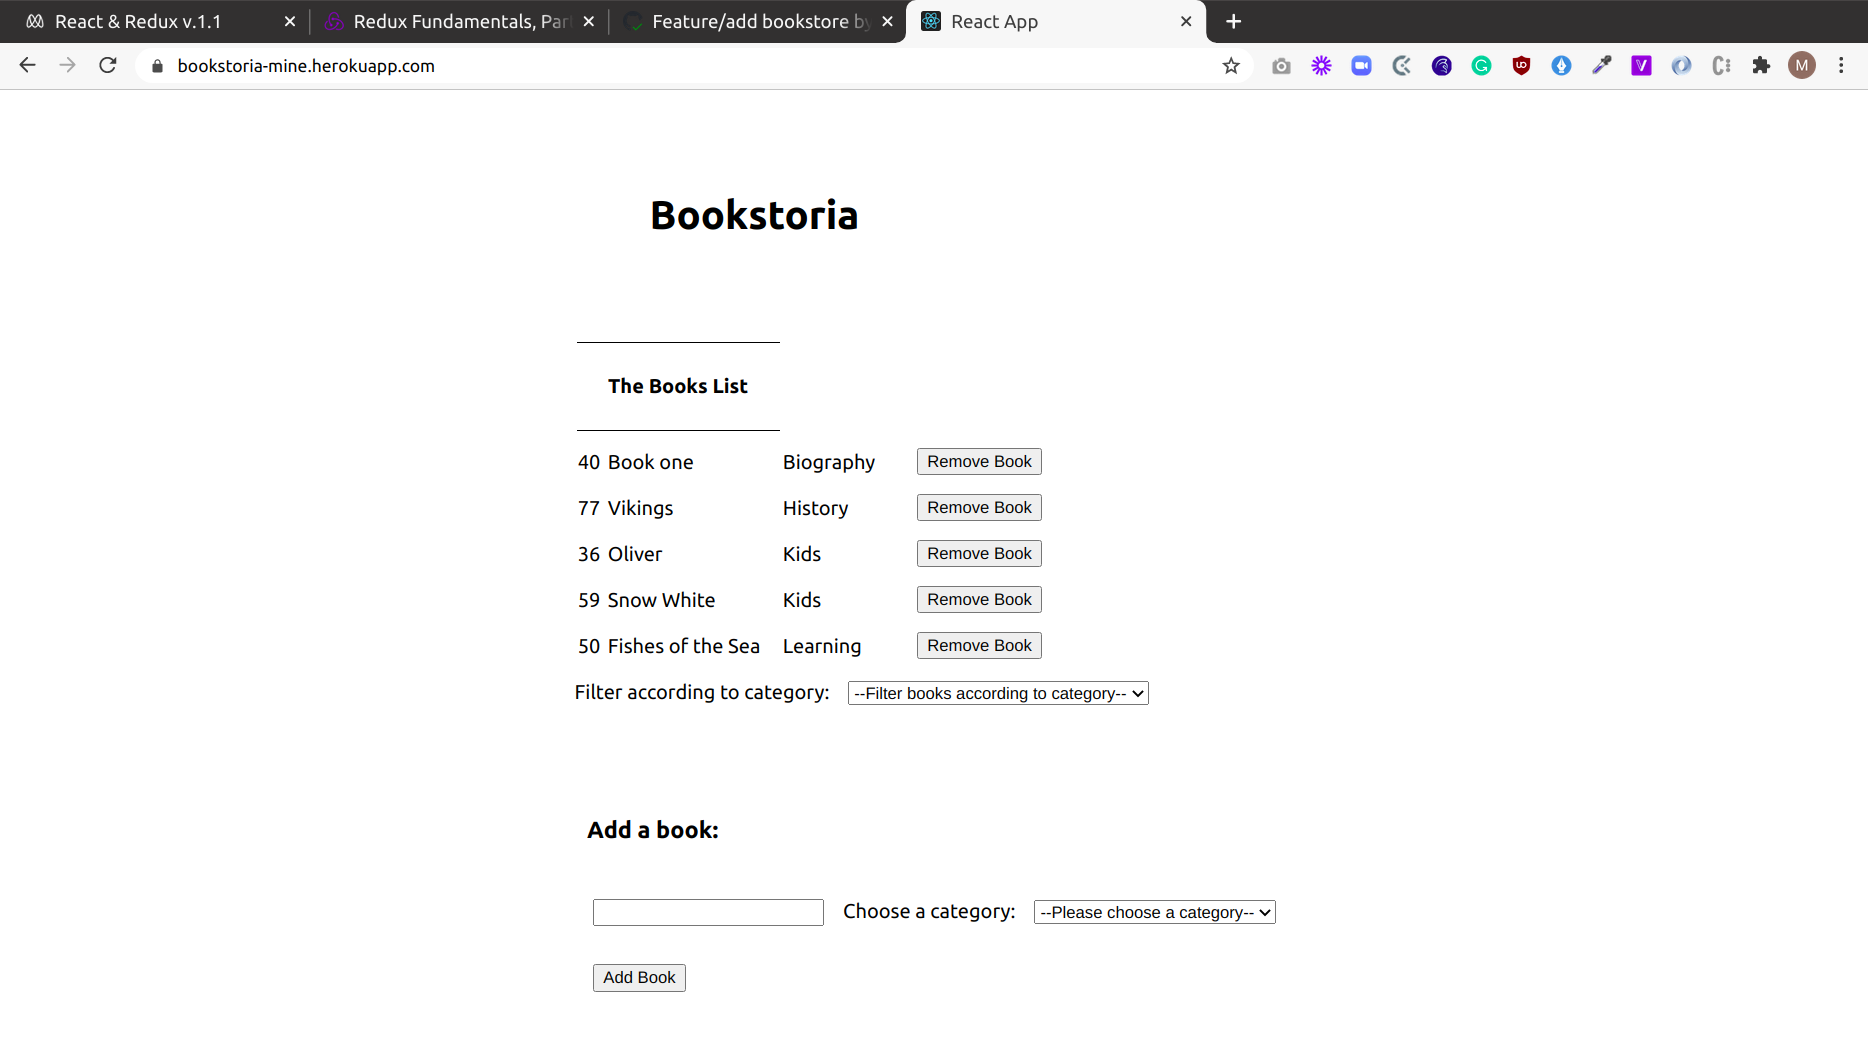
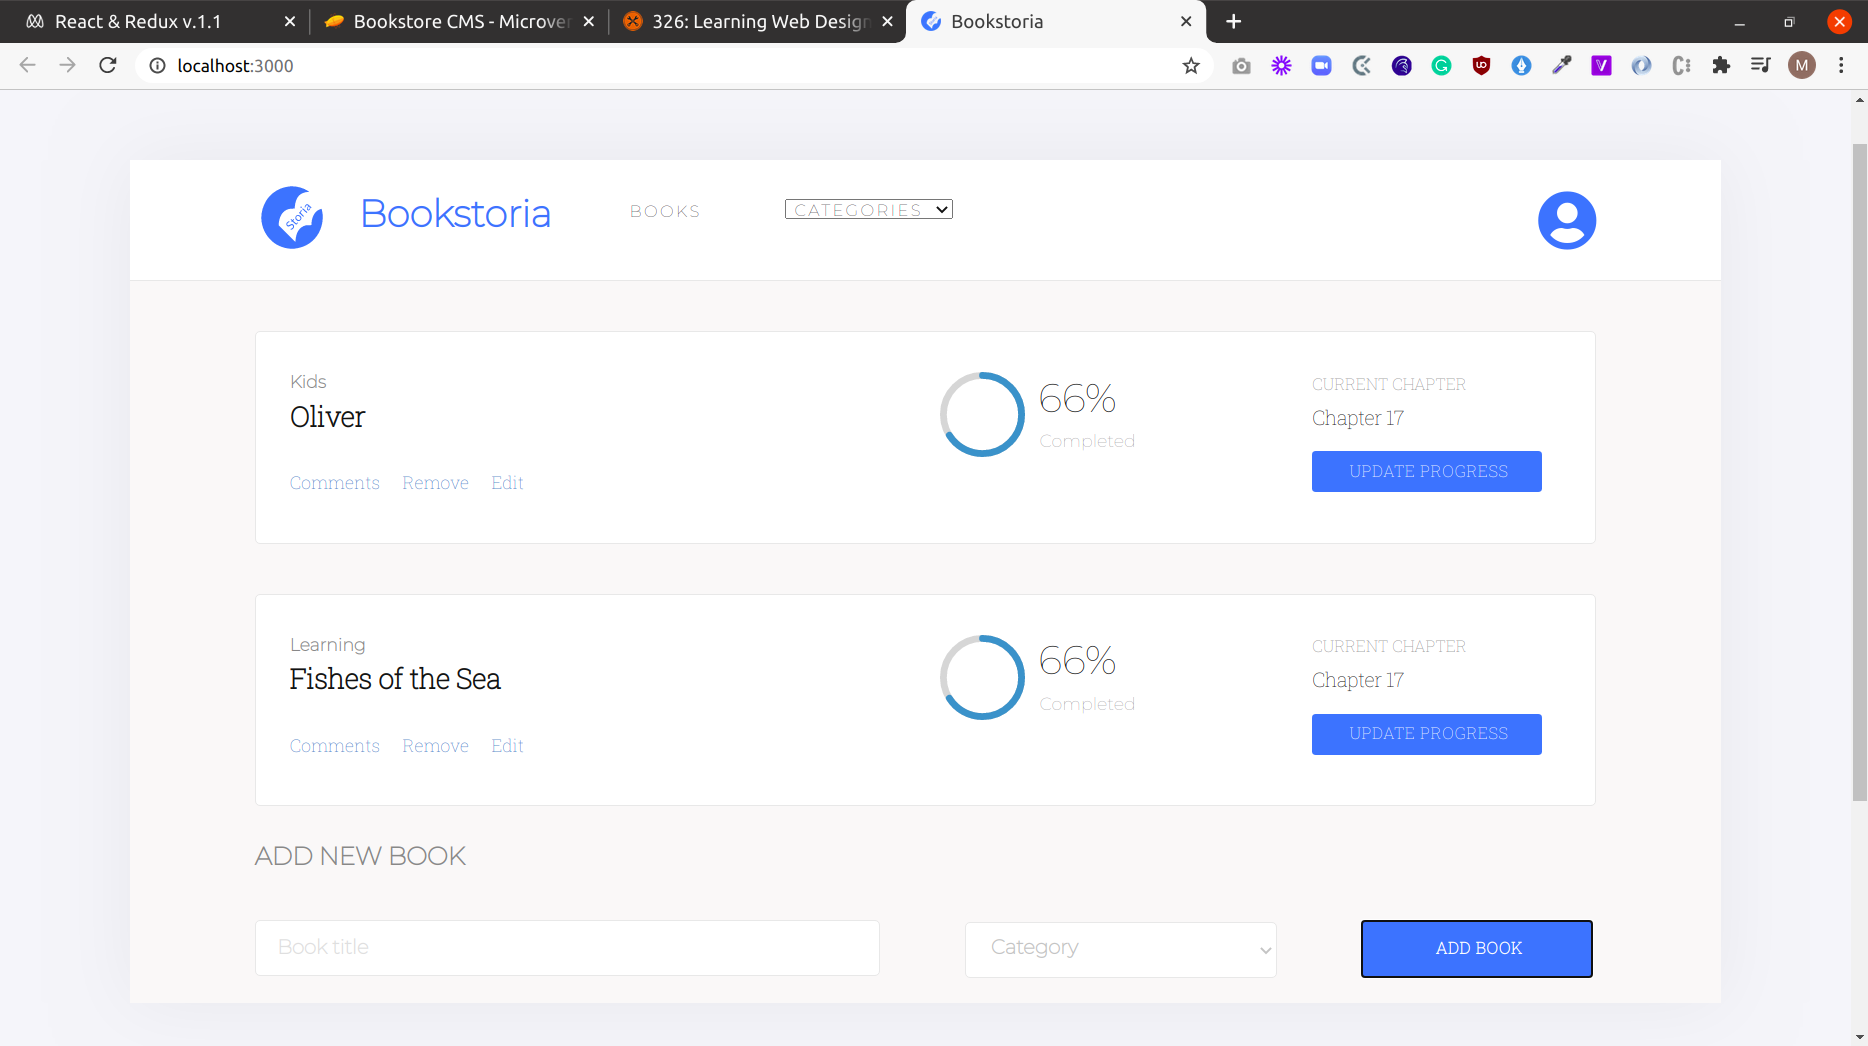
Add the `add new book` section styling

diff --git a/src/App.css b/src/App.css
@@ -6,7 +6,8 @@ ul {
   list-style: none;
 }
 
-.bookstore-heading li, .bookstore-heading select {
+.bookstore-heading li,
+.bookstore-heading select {
   padding-right: 10px;
   margin-right: 50px;
   width: 59px;
@@ -22,10 +23,19 @@ ul {
   padding-top: 18px;
   cursor: pointer;
 }
+
 .bookstore-heading select {
   width: 135px;
   padding-top: unset;
   padding-left: 3px;
+}
+
+.comments-section li {
+  margin-right: 3px;
+  margin-top: 15px;
+  margin-bottom: 15px;
+  padding-right: 12px;
+  cursor: pointer;
 }
 
 .bookstore-heading li:first-child {
@@ -157,13 +167,6 @@ ul {
   letter-spacing: normal;
   color: #4386bf;
 }
-.comments-section li {
-  margin-right: 3px;
-  margin-top: 15px;
-  margin-bottom: 15px;
-  padding-right: 12px;
-  cursor: pointer;
-}
 
 .comments-section li:not(:last-child) {
   border-right: solid 1px #e8e8e8;
@@ -177,7 +180,7 @@ ul {
   width: 68px;
   height: 39px;
   margin: 1px 92px 0 11px;
-  font-family: Montserrat;
+  font-family: 'Montserrat', sans-serif;
   font-size: 32px;
   font-weight: normal;
   font-stretch: normal;
@@ -192,7 +195,7 @@ ul {
   height: 18px;
   margin: 7px 79px 12px 12px;
   opacity: 0.5;
-  font-family: Montserrat;
+  font-family: 'Montserrat', sans-serif;
   font-size: 14px;
   font-weight: normal;
   font-stretch: normal;
@@ -214,13 +217,13 @@ ul {
   padding: 7px 19px 8px 22px;
   border-radius: 3px;
   background-color: #0290ff;
-  border: #0290ff
+  border: #0290ff;
 }
 
 .update-progress {
   width: 143px;
   height: 18px;
-  font-family: RobotoSlab;
+  font-family: 'Roboto Slab', serif;
   font-size: 13px;
   font-weight: 300;
   font-stretch: normal;
@@ -228,5 +231,111 @@ ul {
   line-height: normal;
   letter-spacing: 0.5px;
   text-align: center;
-  color: #ffffff;
+  color: #fff;
+}
+
+.form-title {
+  width: 174px;
+  height: 24px;
+  margin: 29px 524px 19px 0;
+  font-family: 'Montserrat', sans-serif;
+  font-size: 20px;
+  font-weight: bold;
+  font-stretch: normal;
+  font-style: normal;
+  line-height: normal;
+  letter-spacing: -0.18px;
+  color: #888;
+}
+
+.book-form {
+  margin-left: 100px;
+  margin-bottom: 300px;
+  padding-bottom: 20px;
+}
+
+.input-title {
+  width: 500px;
+  height: 45px;
+  margin: 19px 34px 0 0;
+  padding: 13px 167px 13px 17px;
+  border-radius: 4px;
+  border: solid 1px #e8e8e8;
+  background-color: #fff;
+  font-family: 'Montserrat', sans-serif;
+  font-size: 16px;
+  font-weight: bold;
+  font-stretch: normal;
+  font-style: normal;
+  line-height: normal;
+  letter-spacing: -0.15px;
+  color: #c4c4c4;
+}
+
+.input-title::placeholder {
+  height: 19px;
+  font-family: 'Montserrat', sans-serif;
+  font-size: 16px;
+  font-weight: bold;
+  font-stretch: normal;
+  font-style: normal;
+  line-height: normal;
+  letter-spacing: -0.15px;
+  color: #c4c4c4;
+}
+
+select.choose-category {
+  width: 250px;
+  height: 45px;
+  margin: 19px 34px 0;
+  padding: 6px 15px 9px 16px;
+  border-radius: 4px;
+  border: solid 1px #e8e8e8;
+  background-color: #fff;
+  font-family: 'Montserrat', sans-serif;
+  font-size: 16px;
+  font-weight: bold;
+  font-stretch: normal;
+  font-style: normal;
+  line-height: normal;
+  letter-spacing: -0.15px;
+  color: #c4c4c4;
+}
+
+select.choose-category option {
+  width: 72px;
+  height: 19px;
+  margin: 7px 167px 4px 0;
+  font-family: 'Montserrat', sans-serif;
+  font-size: 16px;
+  font-weight: bold;
+  font-stretch: normal;
+  font-style: normal;
+  line-height: normal;
+  letter-spacing: -0.15px;
+  color: #c4c4c4;
+}
+
+.submit {
+  width: 184px;
+  height: 45px;
+  margin: 19px 0 0 34px;
+  padding: 12.8px 19px 14.2px 22px;
+  border-radius: 3px;
+  background-color: #0290ff;
+  border: #0290ff;
+}
+
+.add-book {
+  width: 143px;
+  height: 18px;
+  font-family: 'Roboto Slab', serif;
+  font-size: 13px;
+  font-weight: bold;
+  font-stretch: normal;
+  font-style: normal;
+  line-height: normal;
+  letter-spacing: 0.5px;
+  text-align: center;
+  color: #fff;
 }

diff --git a/src/containers/BooksForm.js b/src/containers/BooksForm.js
@@ -33,39 +33,35 @@ class BooksForm extends React.Component {
     render() {
       const { state: { title } } = this;
       return (
-        <div>
-          <h3 className="add-book-heading">Add a book:</h3>
+        <div className="book-form">
+          <h3 className="form-title">ADD NEW BOOK</h3>
           <input
             className="input-title"
             onChange={e => this.handleChangeTitle(e.target.value)}
             value={title}
+            placeholder="Book title"
           />
-          <label htmlFor="book-select">
-            Choose a category:
-            <select
-              name="book-categories"
-              className="book-categories"
-              id="book-select"
-              onChange={e => this.handleChangeCategory(e.target.value)}
-            >
-              <option>--Please choose a category--</option>
-              {BOOK_CATEGORIES.map(option => (
-                <option key={option} value={option}>
-                  {option}
-                </option>
-              ))}
-              ;
-            </select>
-          </label>
-          <div className="submitBtn">
-            <button
-              type="button"
-              className="submit"
-              onClick={this.handleSubmit}
-            >
-              Add Book
-            </button>
-          </div>
+          <select
+            name="book-categories"
+            className="choose-category"
+            id="book-select"
+            onChange={e => this.handleChangeCategory(e.target.value)}
+          >
+            <option>Category</option>
+            {BOOK_CATEGORIES.map(option => (
+              <option key={option} value={option}>
+                {option}
+              </option>
+            ))}
+            ;
+          </select>
+          <button
+            type="button"
+            className="submit"
+            onClick={this.handleSubmit}
+          >
+            <span className="add-book">ADD BOOK</span>
+          </button>
         </div>
       );
     }

diff --git a/src/containers/BooksList.js b/src/containers/BooksList.js
@@ -8,9 +8,7 @@ const BooksList = ({ books }) => (
   <div>
     {books && books.length ? (
       books.map(book => <Book key={`book-${book.id}`} book={book} />)
-    ) : (
-      <p className="no-books">&apos;No books added yet.&apos;</p>
-    )}
+    ) : null}
   </div>
 );
 
